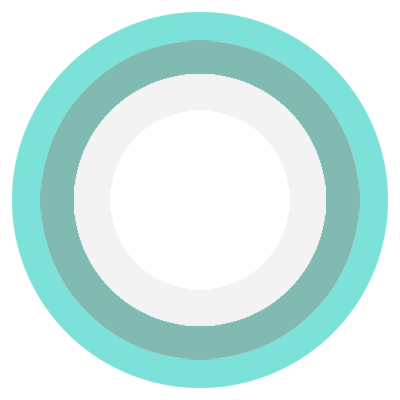
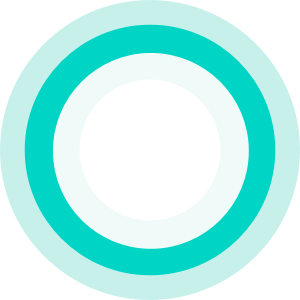
Fixed Plan tier images

diff --git a/src/app/pages/marketplace/plan-info-wizard/mcart-plan-tier-info/mcart-plan-tier-info.component.scss b/src/app/pages/marketplace/plan-info-wizard/mcart-plan-tier-info/mcart-plan-tier-info.component.scss
@@ -1,6 +1,6 @@
 .spectrum {
-  width: 230px;
-  height: 230px;
+  width: 210px;
+  height: 210px;
   margin: 10px 0px;
   padding: 10px;
 }
